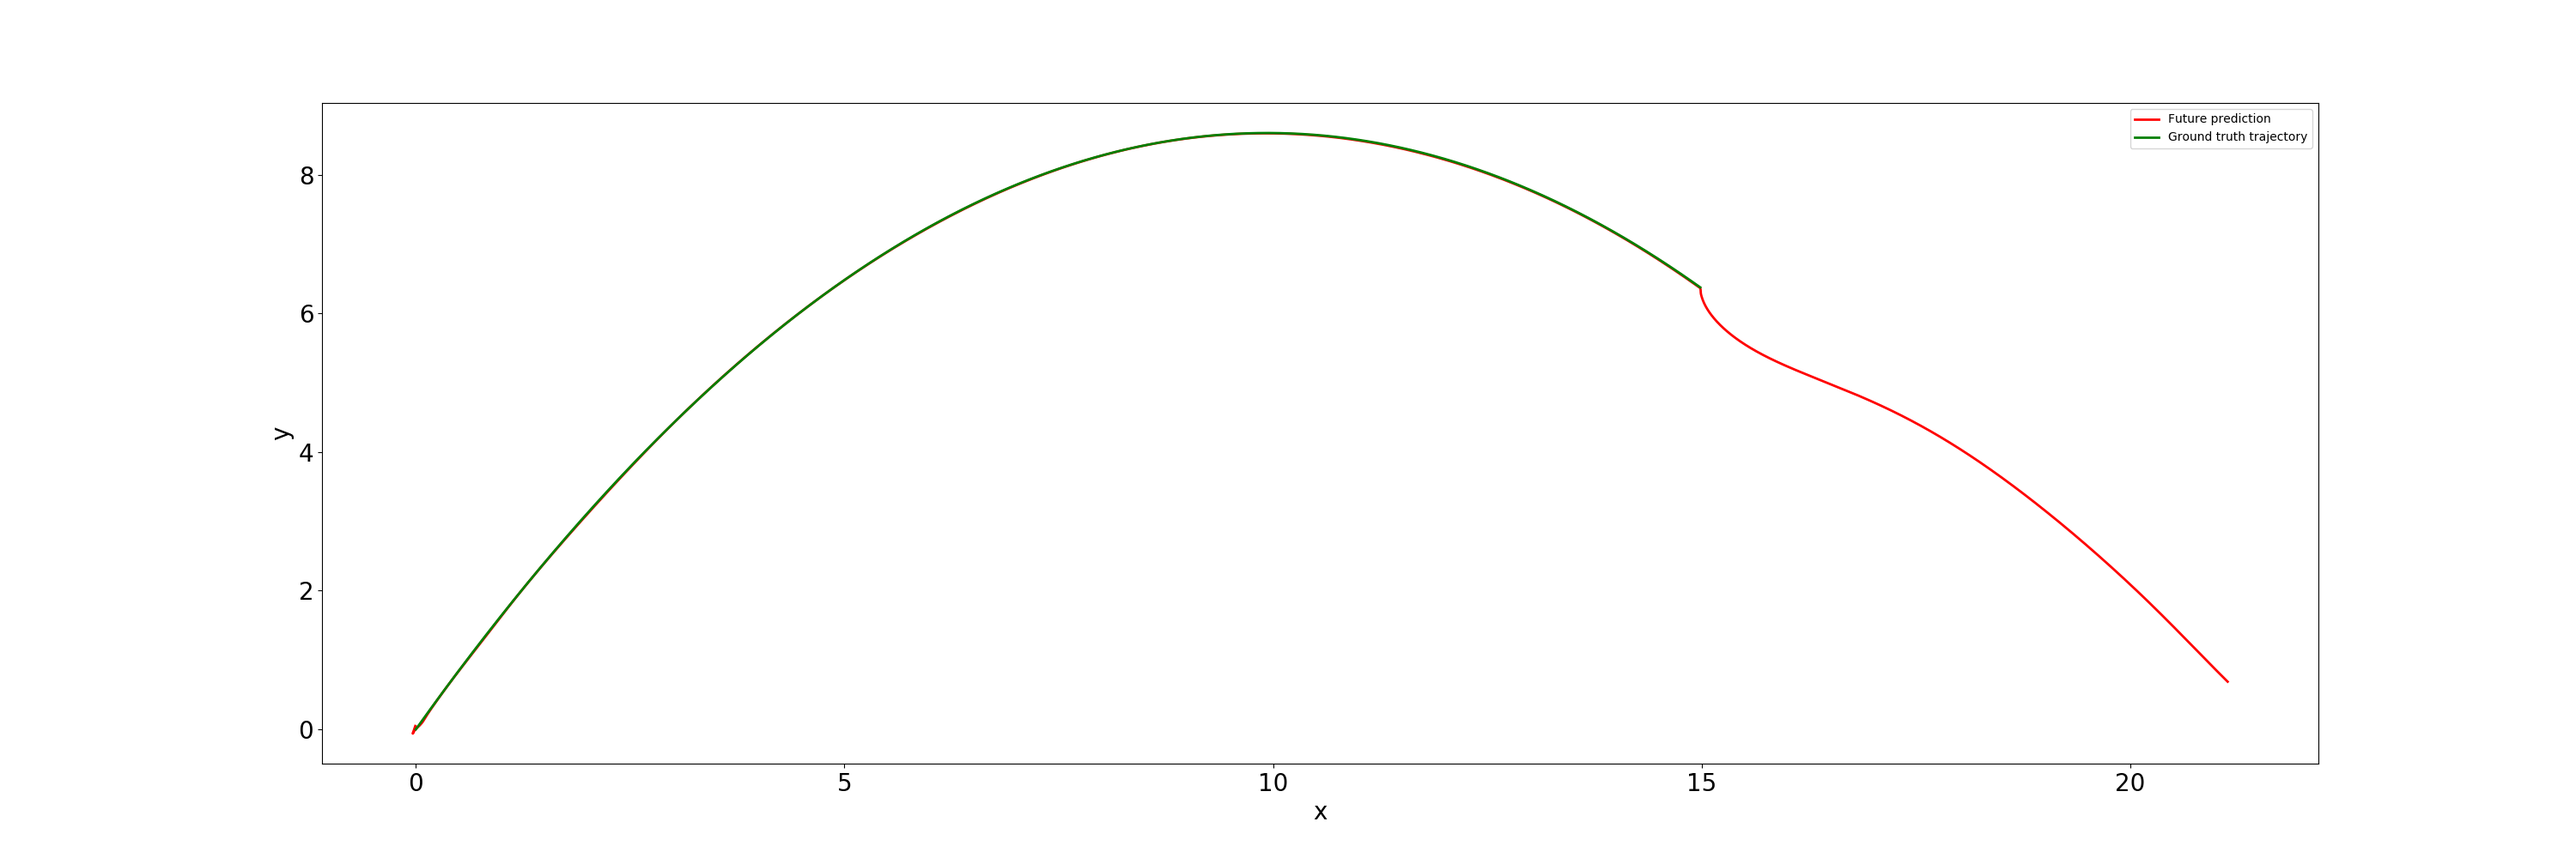
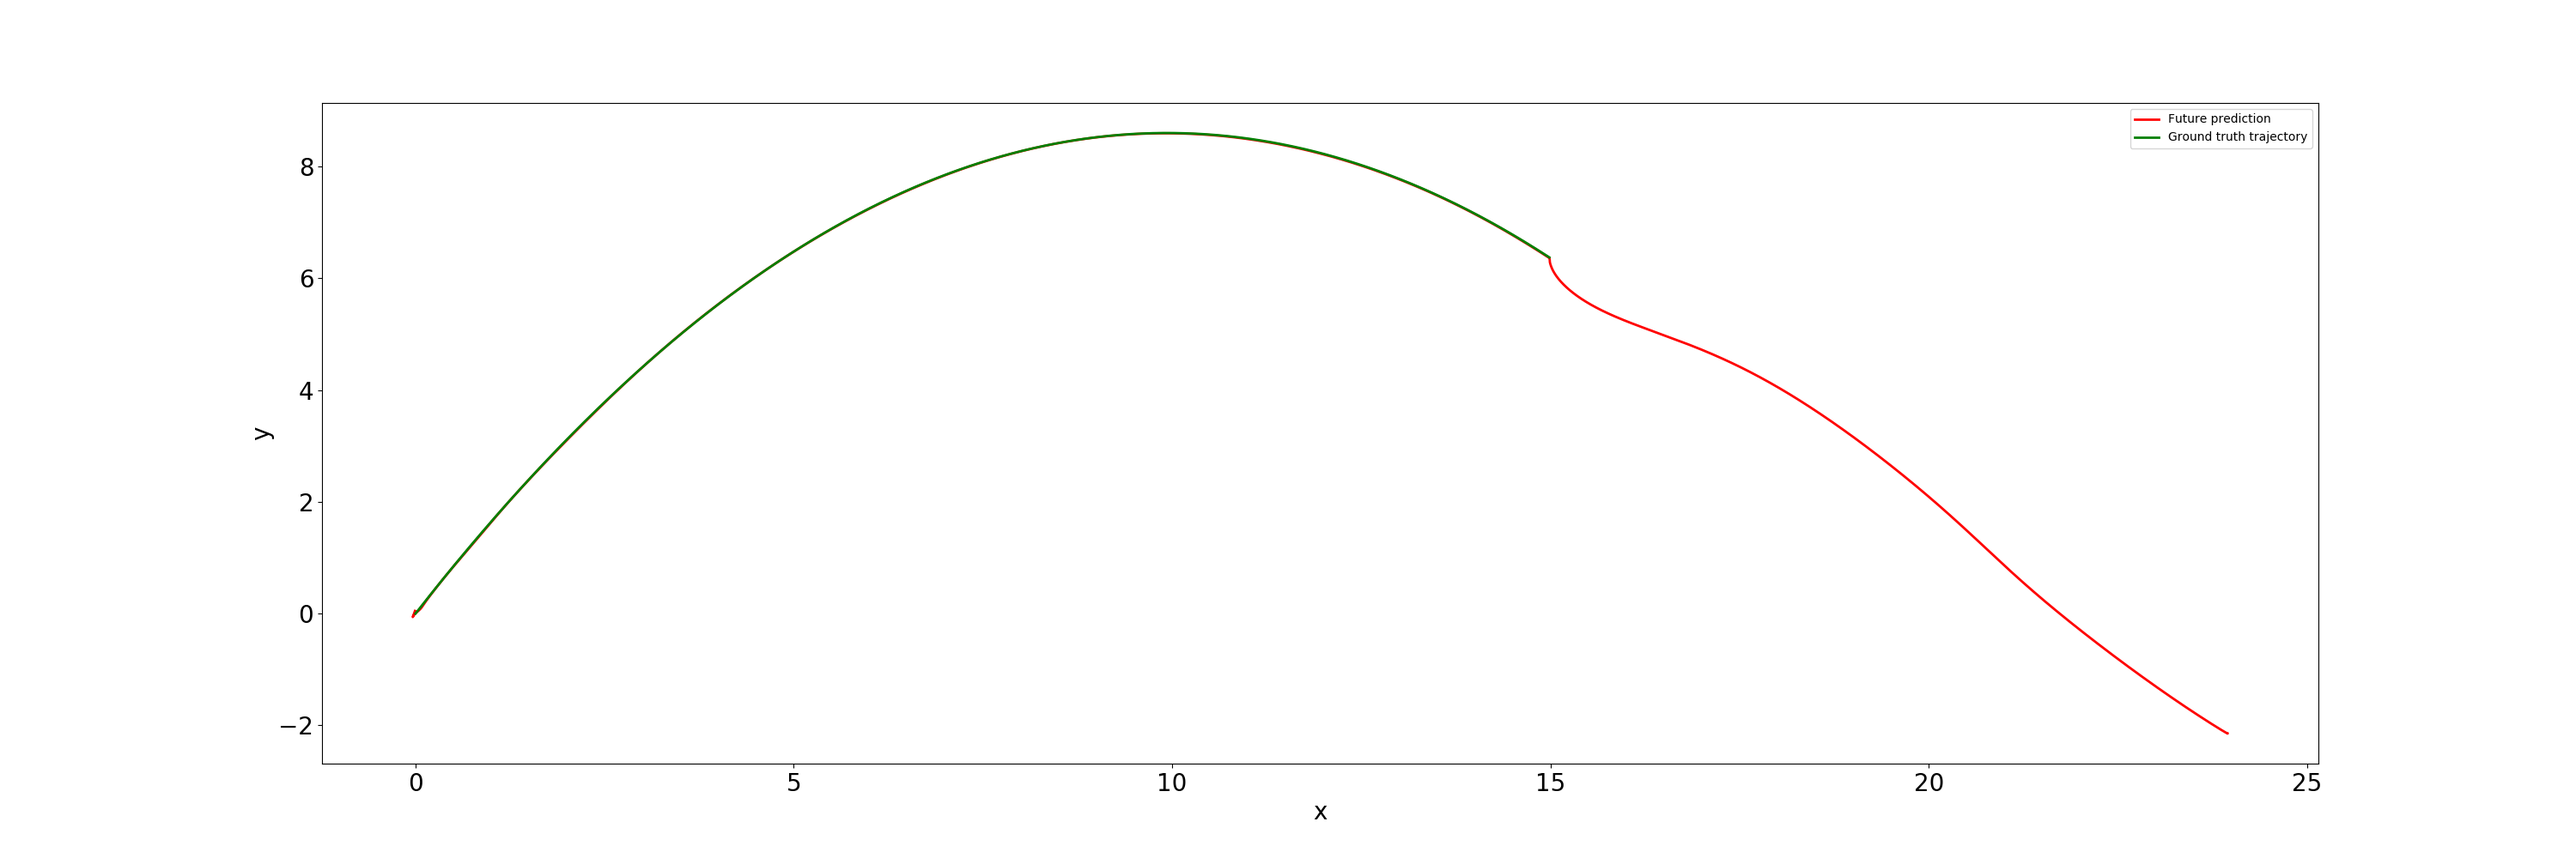
more future

diff --git a/ball_model_viz.py b/ball_model_viz.py
@@ -107,7 +107,7 @@ if __name__ == "__main__":
 
         # begin to predict
         #future = seq_length - input_length - 1
-        future = 1000
+        future = 5000
         pred = seq(input, future = future)
         print('k-mer fraction: {}/{}'.format(input_length, seq_length))
         #loss = criterion(pred, target)
